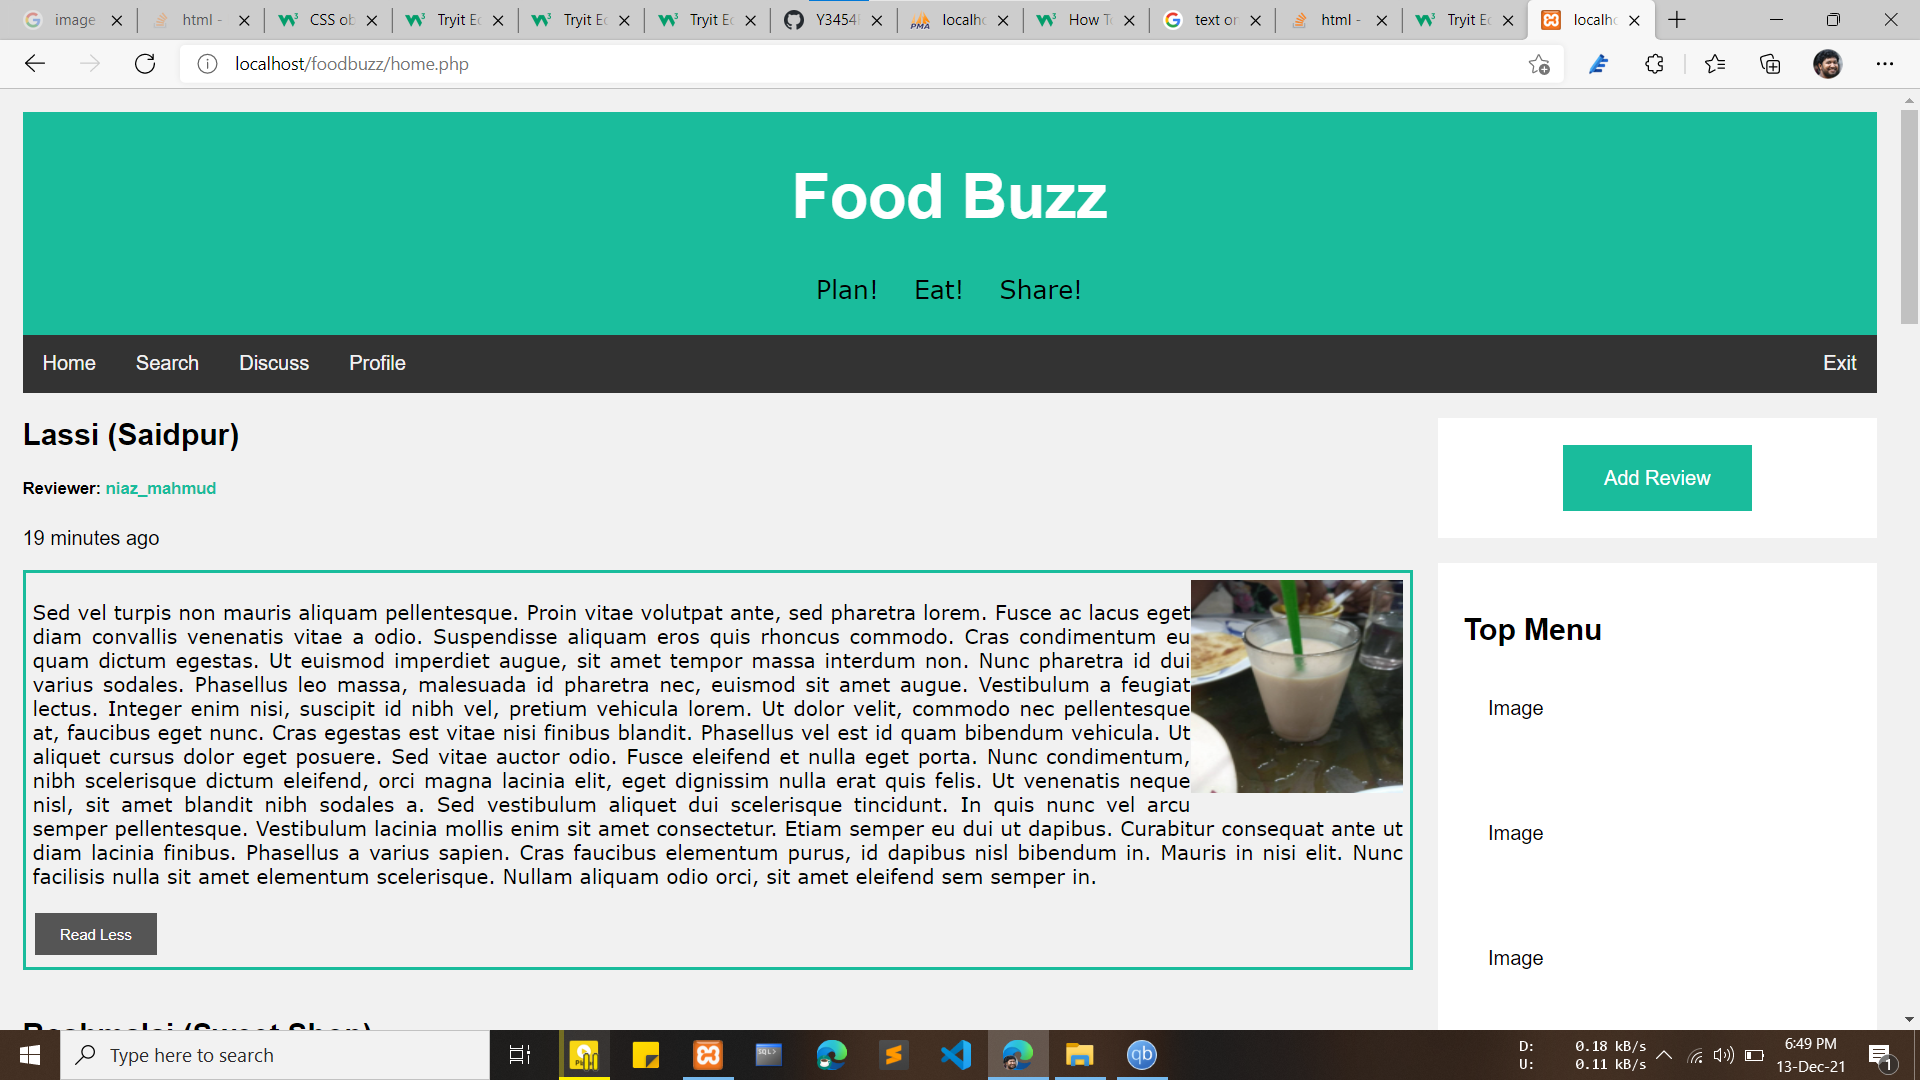
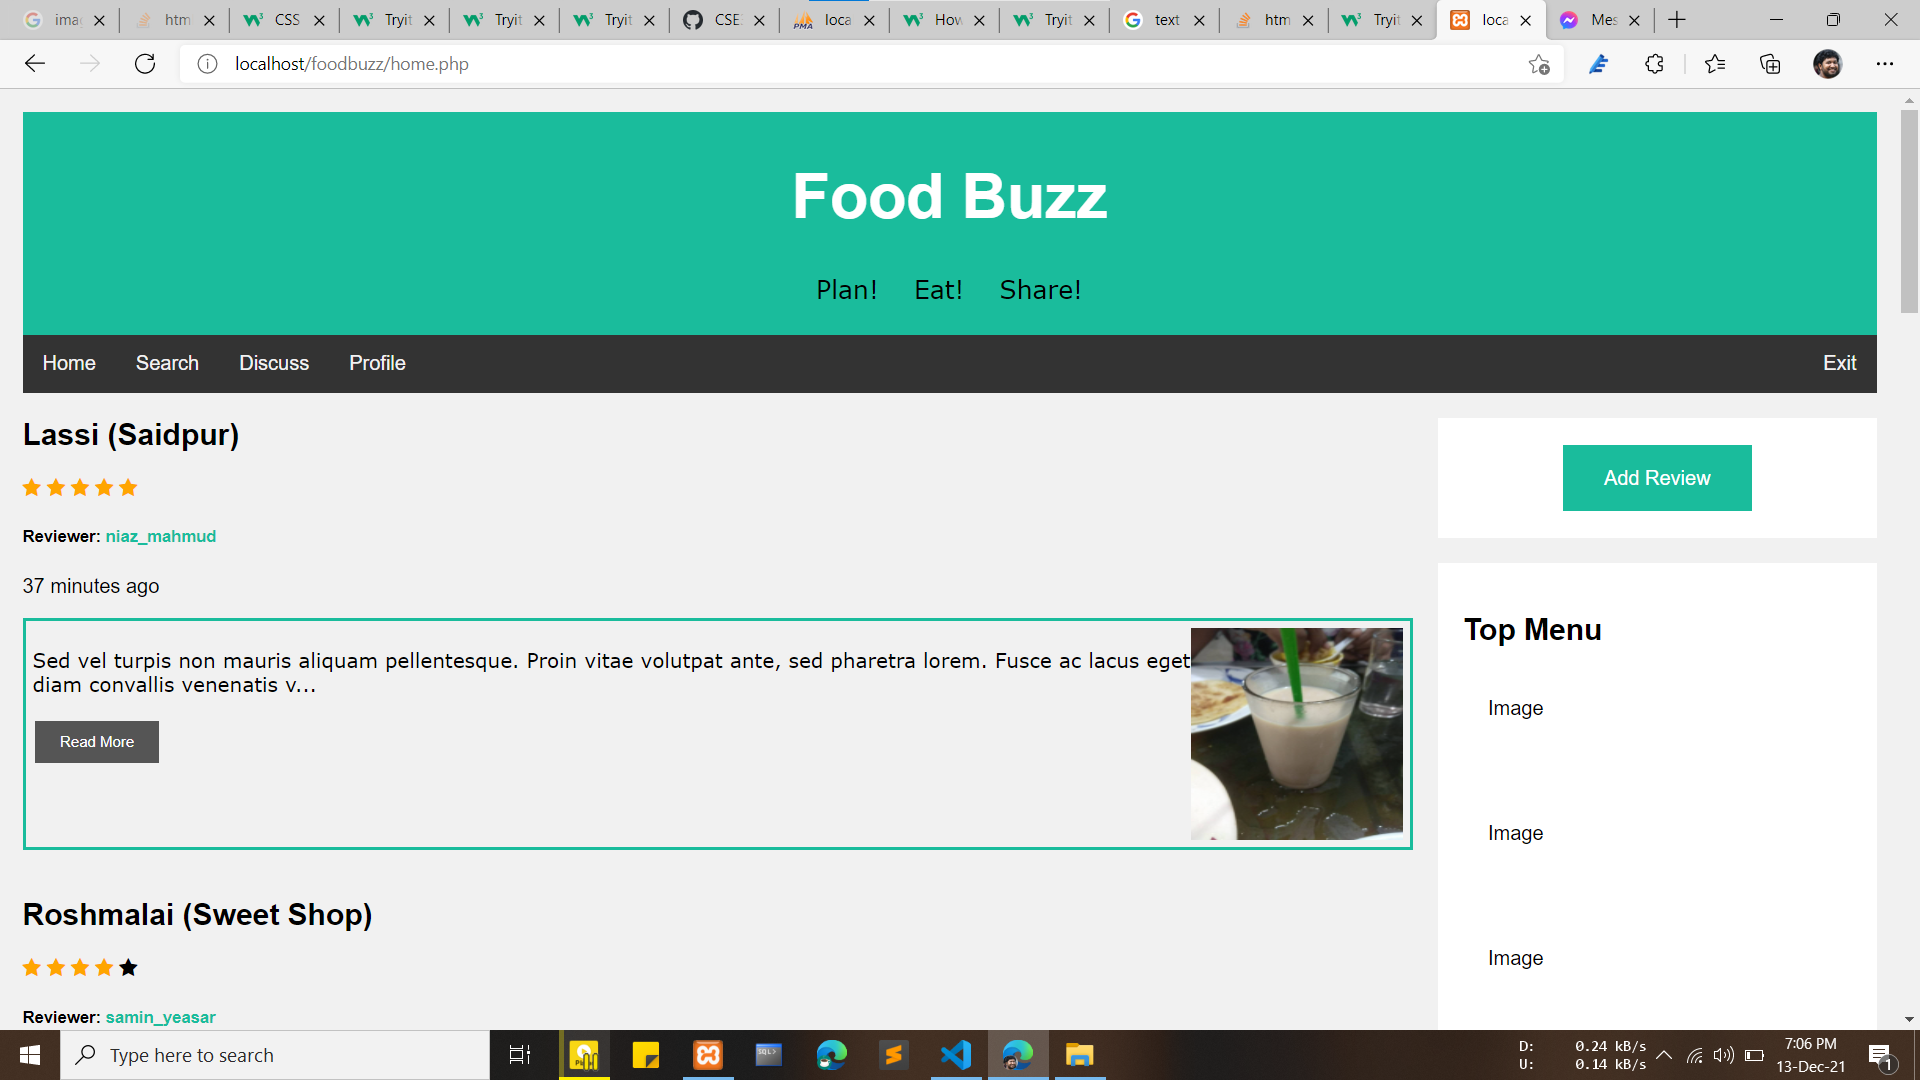
star rating showing done

diff --git a/foodbuzz/css/homeStyle.css b/foodbuzz/css/homeStyle.css
@@ -201,3 +201,8 @@ a:hover {
 }
 
 /* post er box gular jonno shesh */
+
+/* for star rating */
+.checked {
+    color: orange;
+}

diff --git a/foodbuzz/home.php b/foodbuzz/home.php
@@ -1,5 +1,6 @@
 <?php
 include ("header.php");
+//ref of newsfeed: https://www.w3schools.com/css/tryit.asp?filename=trycss_layout_clearfix
 ?>
 
 <div class="row">
@@ -99,6 +100,14 @@ include ("header.php");
   ?>
 
   <h2 style="clear:right"><?php echo $row['item_name']." (".$row['restaurant'].")" ?></h2>
+  <!-- star rating dekhanor jonno shuru -->
+  <?php $star_value = $row['rating']; ?>
+  <span class="fa fa-star <?php if($star_value >= 1) echo "checked"; ?>"></span>
+  <span class="fa fa-star <?php if($star_value >= 2) echo "checked"; ?>"></span>
+  <span class="fa fa-star <?php if($star_value >= 3) echo "checked"; ?>"></span>
+  <span class="fa fa-star <?php if($star_value >= 3) echo "checked"; ?>"></span>
+  <span class="fa fa-star <?php if($star_value >= 5) echo "checked"; ?>"></span>
+  <!-- star rating dekhanor jonno shesh -->
   <h5 style="text-transform:none;">Reviewer: <a href="profile.php?profileId=<?php echo$reviewerId ?>"> <?php echo $reviewer_username; ?> </a>  </h5>
   <p><?php echo $time_message ?></p>
 

diff --git a/foodbuzz/header.php b/foodbuzz/header.php
@@ -19,6 +19,8 @@ else {
 <head>
 <!-- css link -->
 <link rel="stylesheet" href="css/homeStyle.css">
+<!-- Font Awesome Icon Library -->
+<link rel="stylesheet" href="https://cdnjs.cloudflare.com/ajax/libs/font-awesome/4.7.0/css/font-awesome.min.css">
 </head>
 
 <body>
